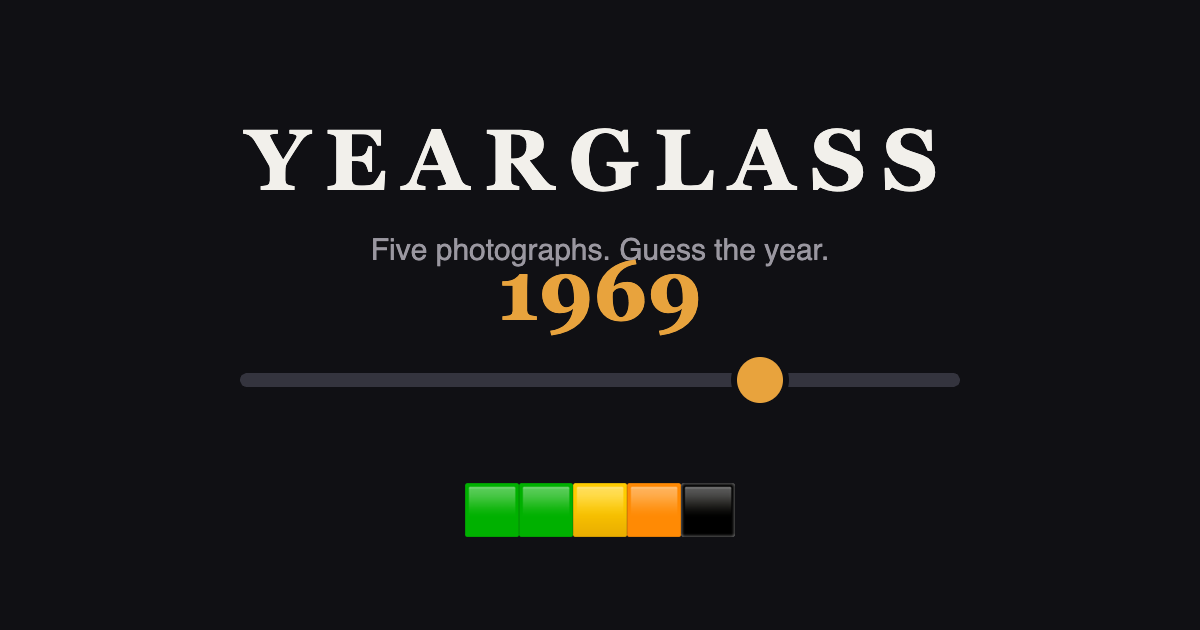
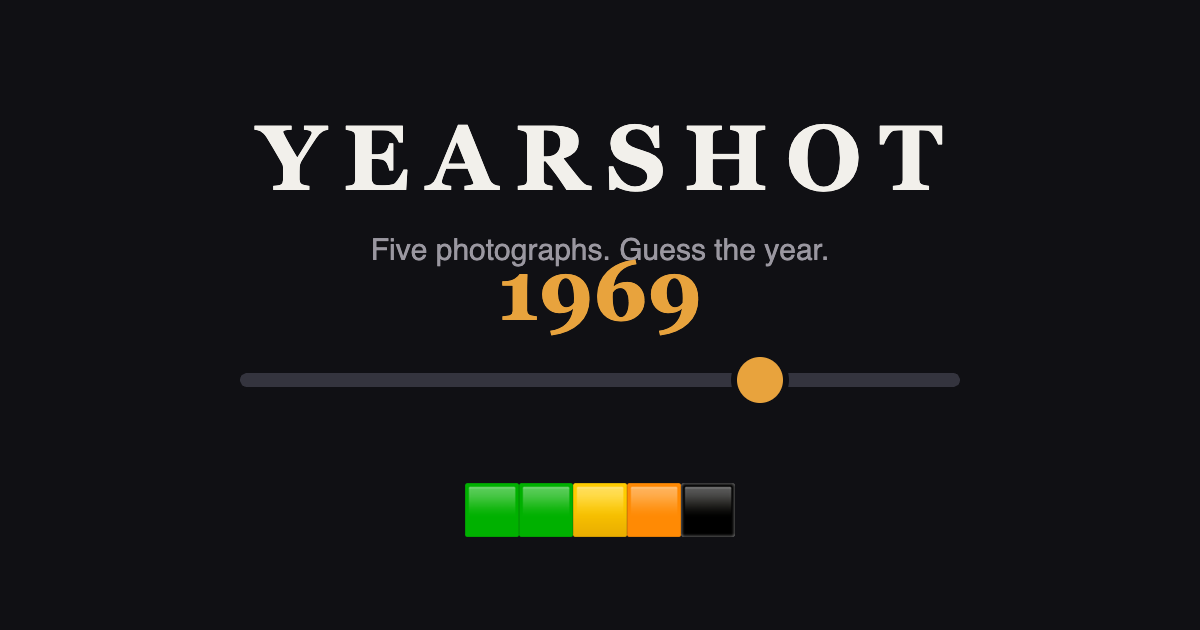
Rename Yearglass to Yearshot
Domain yearshot.com registered, so the product takes that name. Covers the
wordmark, titles, social card, manifest, dashboard brand, curation tool and
harvester user-agent.

The analytics worker is redeployed as yearshot-analytics but stays bound to
the existing D1 database, whose name is deliberately unchanged: it holds all
collected data and is internal only.

Public URLs still point at the GitHub Pages address. yearshot.com is on
registrar parking until DNS is repointed, and switching the site to a domain
that does not resolve yet would take it offline for anyone playtesting.

Changed region(s): [[0.185, 0.181, 0.8017, 0.3016]]

diff --git a/index.html b/index.html
@@ -3,13 +3,13 @@
 <head>
 <meta charset="utf-8">
 <meta name="viewport" content="width=device-width, initial-scale=1">
-<title>Yearglass — the daily photo game</title>
+<title>Yearshot — the daily photo game</title>
 <meta name="description" content="Five photographs. Guess the year each was taken. A new puzzle every day.">
-<meta property="og:title" content="Yearglass — the daily photo game">
+<meta property="og:title" content="Yearshot — the daily photo game">
 <meta property="og:description" content="Five photographs. Guess the year each was taken. A new puzzle every day.">
 <meta property="og:type" content="website">
-<meta property="og:url" content="https://tuedolm.github.io/yearglass/">
-<meta property="og:image" content="https://tuedolm.github.io/yearglass/og.png">
+<meta property="og:url" content="https://tuedolm.github.io/yearshot/">
+<meta property="og:image" content="https://tuedolm.github.io/yearshot/og.png">
 <meta name="twitter:card" content="summary_large_image">
 <meta name="theme-color" content="#101014">
 <link rel="icon" href="favicon.svg" type="image/svg+xml">
@@ -20,7 +20,7 @@
 <div id="app">
 
   <header id="header">
-    <div class="wordmark" id="wordmark">YEARGLASS</div>
+    <div class="wordmark" id="wordmark">YEARSHOT</div>
     <div class="header-meta">
       <span id="puzzle-label">#—</span>
       <span class="dot-sep">·</span>
@@ -85,7 +85,7 @@
   </section>
 
   <section id="results" hidden>
-    <div class="results-title"><span id="results-name">Yearglass</span> <span id="results-number">#—</span></div>
+    <div class="results-title"><span id="results-name">Yearshot</span> <span id="results-number">#—</span></div>
     <div class="results-grid" id="results-grid"></div>
     <div class="results-total" id="results-total"></div>
     <div class="results-streak" id="results-streak" hidden></div>

diff --git a/app.js b/app.js
@@ -4,10 +4,10 @@
   // ---------- Config ----------
 
   const CONFIG = {
-    name: "Yearglass",         // game name; single place to change on rename
+    name: "Yearshot",         // game name; single place to change on rename
     puzzlePath: "puzzles/",    // where daily blobs live (static dir or CDN)
-    shareUrl: "https://tuedolm.github.io/yearglass/", // appended to shared results
-    analyticsEndpoint: "https://yearglass-analytics.tuedolm.workers.dev/", // anonymous score events; GET /stats for aggregates
+    shareUrl: "https://tuedolm.github.io/yearshot/", // appended to shared results
+    analyticsEndpoint: "https://yearshot-analytics.tuedolm.workers.dev/", // anonymous score events; GET /stats for aggregates
   };
 
   const MIN_YEAR = 1826;
@@ -518,7 +518,7 @@
     ctx.font = `700 ${L.wm}px ${SERIF}`;
     ctx.letterSpacing = `${L.wmLs}px`;
     // letterSpacing adds a trailing gap, so nudge right by half to re-centre.
-    ctx.fillText("YEARGLASS", cx + L.wmLs / 2, cy + L.yWm);
+    ctx.fillText("YEARSHOT", cx + L.wmLs / 2, cy + L.yWm);
     ctx.letterSpacing = "0px";
 
     ctx.fillStyle = "#9a97a0";
@@ -577,7 +577,7 @@
     const canvas = renderShareCard(format);
     const blob = await new Promise((res) => canvas.toBlob(res, "image/png"));
     if (!blob) return;
-    const name = `yearglass-${String(puzzle.number).padStart(3, "0")}-${format}.png`;
+    const name = `yearshot-${String(puzzle.number).padStart(3, "0")}-${format}.png`;
     const file = new File([blob], name, { type: "image/png" });
 
     if (navigator.canShare && navigator.canShare({ files: [file] })) {

diff --git a/dashboard.html b/dashboard.html
@@ -3,7 +3,7 @@
 <head>
 <meta charset="utf-8">
 <meta name="viewport" content="width=device-width, initial-scale=1">
-<title>Yearglass — Traffic &amp; Engagement</title>
+<title>Yearshot — Traffic &amp; Engagement</title>
 <meta name="robots" content="noindex">
 <style>
   :root {
@@ -108,7 +108,7 @@
 <body>
 <div class="wrap">
   <header>
-    <div class="brand">YEAR<span>GLASS</span> · metrics</div>
+    <div class="brand">YEAR<span>SHOT</span> · metrics</div>
     <div class="updated" id="updated">—</div>
   </header>
   <p class="subtitle">Anonymous traffic &amp; engagement, updated live from the game's analytics endpoint.</p>
@@ -140,7 +140,7 @@
 
 <script>
 "use strict";
-const ENDPOINT = "https://yearglass-analytics.tuedolm.workers.dev";
+const ENDPOINT = "https://yearshot-analytics.tuedolm.workers.dev";
 const $ = (s) => document.querySelector(s);
 const fmt = (n) => Number(n || 0).toLocaleString("en-US");
 const pct = (n) => (n * 100).toFixed(n >= 0.1 ? 0 : 1) + "%";

diff --git a/infra/worker.js b/infra/worker.js
@@ -1,5 +1,5 @@
 /**
- * Yearglass analytics collector — Cloudflare Worker + D1.
+ * Yearshot analytics collector — Cloudflare Worker + D1.
  *
  * Receives the tiny JSON events the client's track() sends and stores them in
  * a D1 database. GET /stats returns per-puzzle aggregates as JSON — the score
@@ -16,8 +16,8 @@
  *   {e:"share",    d:"2026-07-21", n:1}
  *
  * Setup (one-time):
- *   npx wrangler d1 create yearglass-analytics   # id goes in wrangler.toml
- *   npx wrangler d1 execute yearglass-analytics --remote --command \
+ *   npx wrangler d1 create yearshot-analytics   # id goes in wrangler.toml
+ *   npx wrangler d1 execute yearshot-analytics --remote --command \
  *     "CREATE TABLE IF NOT EXISTS events (id INTEGER PRIMARY KEY AUTOINCREMENT, \
  *      e TEXT, d TEXT, n INTEGER, r INTEGER, err INTEGER, pts INTEGER, \
  *      hint INTEGER, ts INTEGER)"

diff --git a/about.html b/about.html
@@ -3,8 +3,8 @@
 <head>
 <meta charset="utf-8">
 <meta name="viewport" content="width=device-width, initial-scale=1">
-<title>About — Yearglass</title>
-<meta name="description" content="About Yearglass: how it works, privacy, and photo credits.">
+<title>About — Yearshot</title>
+<meta name="description" content="About Yearshot: how it works, privacy, and photo credits.">
 <link rel="icon" href="favicon.svg" type="image/svg+xml">
 <link rel="stylesheet" href="styles.css">
 <style>

diff --git a/tools/curate.html b/tools/curate.html
@@ -3,7 +3,7 @@
 <head>
 <meta charset="utf-8">
 <meta name="viewport" content="width=device-width, initial-scale=1">
-<title>Timeline curation tool</title>
+<title>Yearshot curation tool</title>
 <style>
 :root { --bg:#101014; --surface:#1a1a20; --s2:#24242c; --text:#f2f0eb; --dim:#9a97a0; --accent:#e8a33d; --green:#4caf6e; --red:#e05252; }
 * { box-sizing:border-box; margin:0; padding:0; }

diff --git a/tools/harvest.py b/tools/harvest.py
@@ -41,7 +41,7 @@ REJECTED = ROOT / "tools" / "rejected.json"
 
 API = "https://commons.wikimedia.org/w/api.php"
 USER_AGENT = (
-    "YearglassHarvester/1.0 (daily photo puzzle; curation candidate search; "
+    "YearshotHarvester/1.0 (daily photo puzzle; curation candidate search; "
     "contact via repository issues)"
 )
 

diff --git a/README.md b/README.md
@@ -1,4 +1,4 @@
-# Yearglass
+# Yearshot
 
 A once-a-day web game: five photographs, drag a slider to guess the year each
 was taken, score by how close you were, share a spoiler-free result grid.
@@ -138,7 +138,7 @@ public launch.
 
 ## Playtest deployment
 
-Live at **https://tuedolm.github.io/yearglass/** (GitHub Pages from `main`).
+Live at **https://tuedolm.github.io/yearshot/** (GitHub Pages from `main`).
 Deploy updates with `git push` (regenerate puzzles first if content changed).
 
 ## Launch checklist
@@ -148,12 +148,12 @@ Deploy updates with `git push` (regenerate puzzles first if content changed).
 - [x] Absolute `og:image` URL
 - [x] CC attribution rendered on every reveal + credits page
 - [x] Hint mechanic (decade reveal, −40% of round score)
-- [x] **Name: Yearglass** (renamed from Timeline, which collides with
+- [x] **Name: Yearshot** (renamed from Timeline, which collides with
   Asmodee/Zygomatic's Timeline card game)
 - [ ] Bank ≥90 days of puzzles via `tools/curate.html` (8 days banked now;
   puzzle #009+ shows "no puzzle" until scheduled)
 - [x] Analytics live: `infra/worker.js` on Cloudflare (D1). Aggregates at
-  https://yearglass-analytics.tuedolm.workers.dev/stats
+  https://yearshot-analytics.tuedolm.workers.dev/stats
 - [ ] Custom domain once named
 - [ ] Optional: service worker for offline/instant-load PWA
 